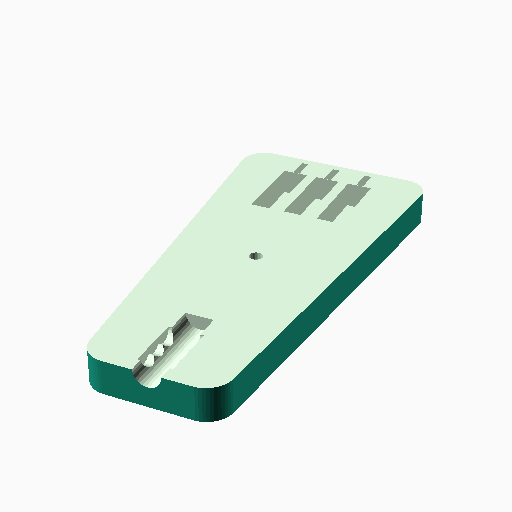
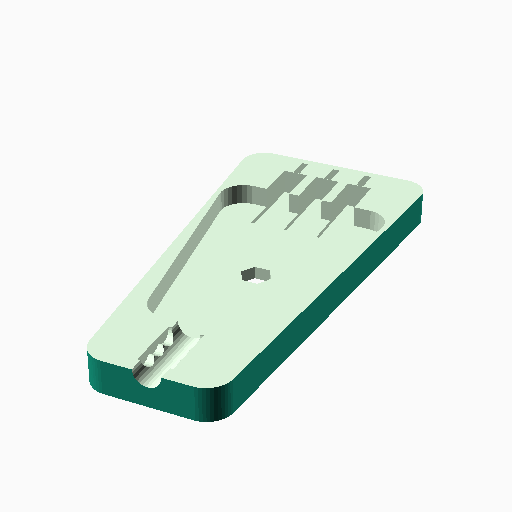
fix: add internal cavity to parametric option 2 for electrical wires

diff --git a/README.md b/README.md
@@ -11,9 +11,16 @@ Wszystkie zdjęcia poglądowe w folderze `images/` oraz pierwotny plik STL w fol
 
 ---
 
-Parametryczne modele OpenSCAD wtyczek elektrycznych zasilania dla klasycznych maszyn Elna. Model jest parametryczny - można wybrać m.in. orientację środkowego pinu.
+Parametryczne modele OpenSCAD wtyczek elektrycznych zasilania dla klasycznych maszyn Elna.
 
-Gotowe do druku wyeksportowane STLe znajdziesz w folderze `stls/exports/`.
+## Dostępne wersje wtyczek
+
+W tym repozytorium znajdziesz dwa nowo przygotowane warianty (znajdujące się w folderze `models/`), które realizują modyfikację ułożenia pinów (3 piny pionowe):
+
+1. **`elna_plug_option1_stl_mod.scad`** – Modyfikacja operująca bezpośrednio na oryginalnym pliku STL. Wymaga skalibrowania suwaków `hole_x` i `hole_y` w OpenSCAD. Zapewnia najwierniejsze odwzorowanie kształtu.
+2. **`elna_plug_option2_parametric.scad`** – Wersja narysowana od zera parametrycznie w OpenSCAD na bazie obrysu.
+
+Gotowe do druku wyeksportowane STLe obu wariantów znajdziesz w folderze `stls/exports/`. Wygenerowane grafiki poglądowe z programu OpenSCAD znajdują się w nowym katalogu `renders/`.
 
 ## Wymagania dotyczące druku 3D
 Z uwagi na to, że element ten ma bezpośredni kontakt z przewodami pod napięciem (230V) oraz elementami mosiężnymi mogącymi się nagrzewać: